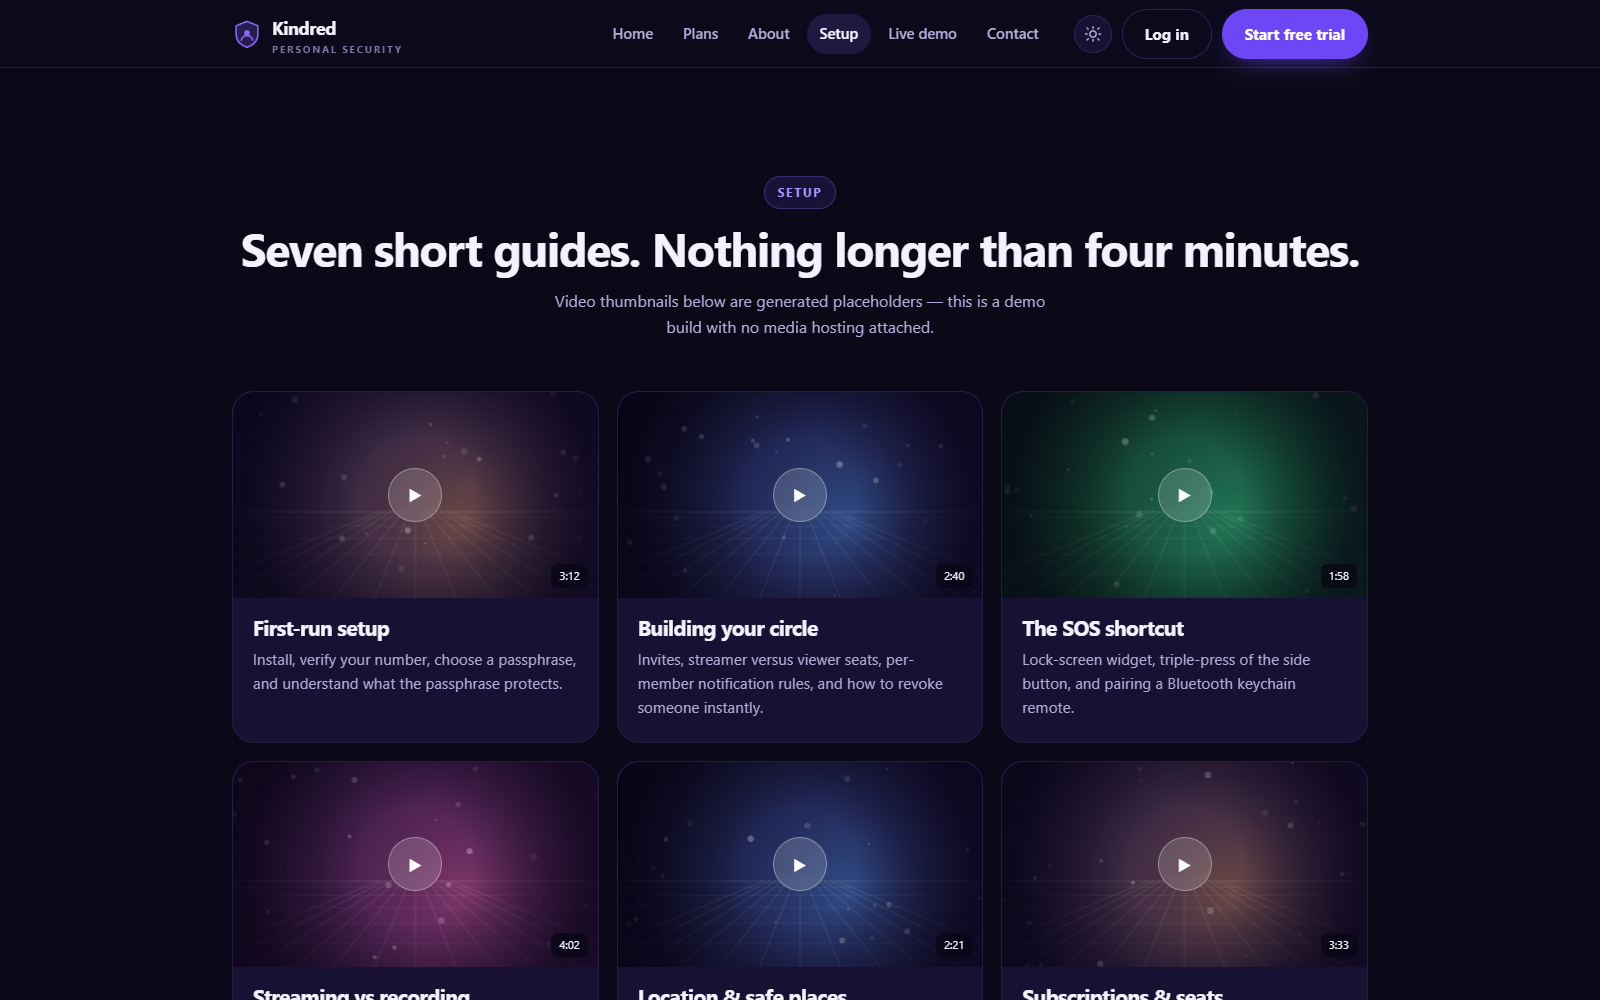
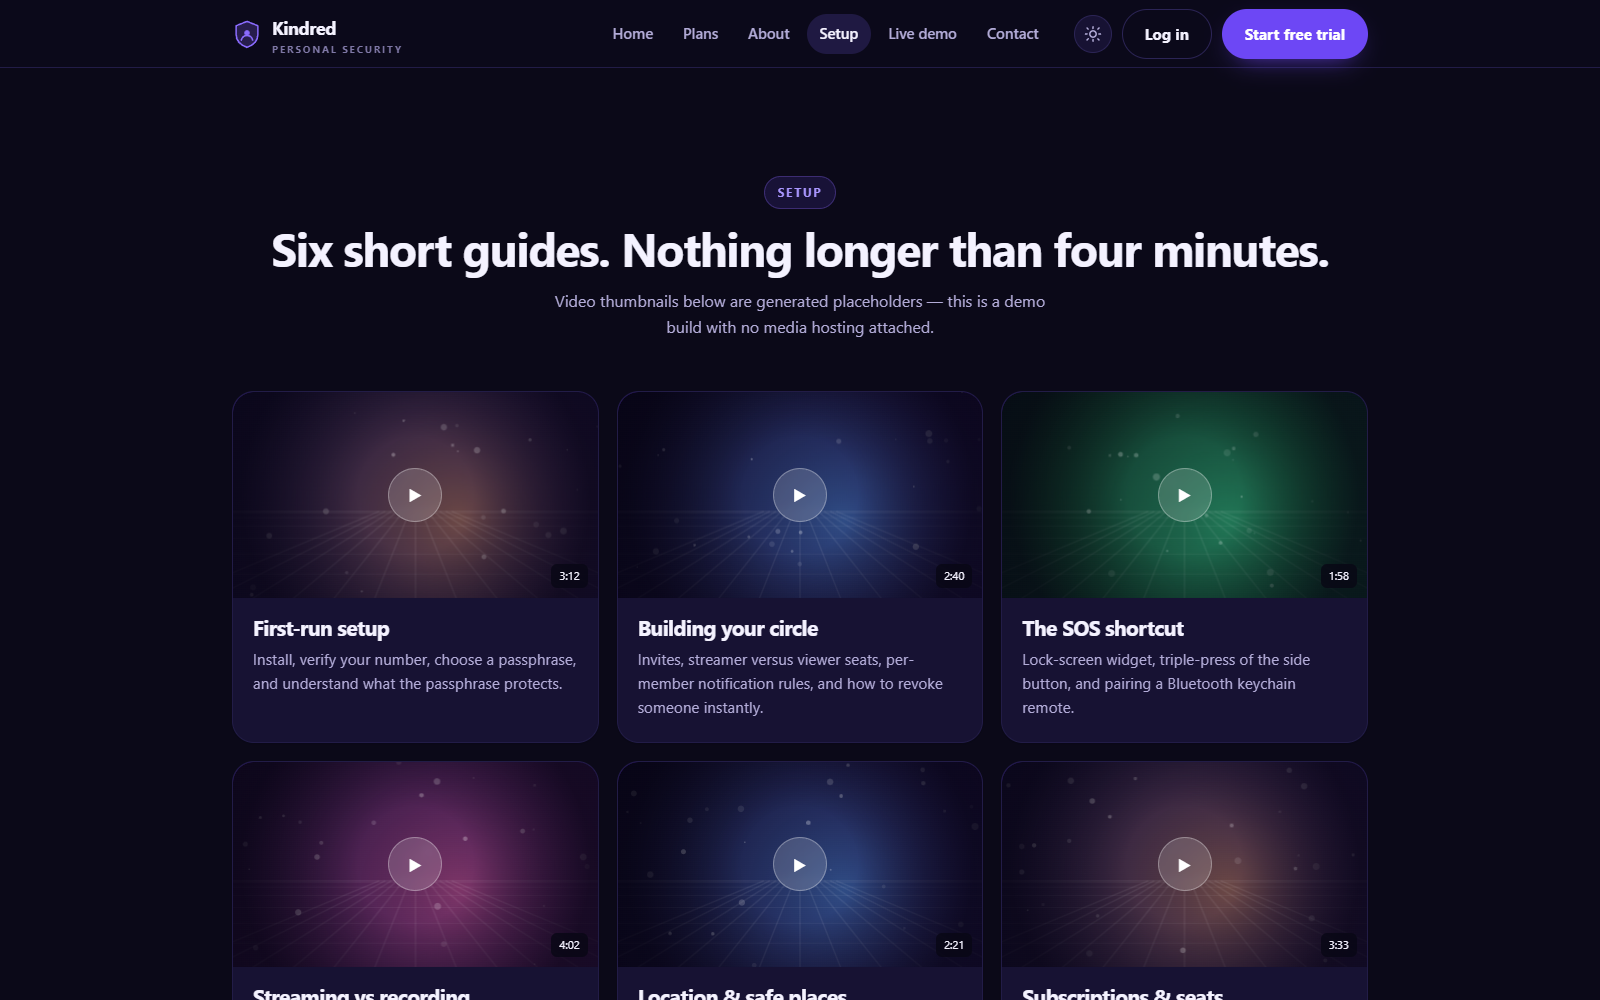
Setup page: heading said seven guides, there are six

Changed region(s): [[0.1562, 0.217, 0.8438, 0.279]]

diff --git a/setup.html b/setup.html
@@ -17,7 +17,7 @@
     <div class="wrap">
       <div class="head">
         <span class="eyebrow">Setup</span>
-        <h2>Seven short guides. Nothing longer than four minutes.</h2>
+        <h2>Six short guides. Nothing longer than four minutes.</h2>
         <p>Video thumbnails below are generated placeholders — this is a demo build with no media hosting attached.</p>
       </div>
 
